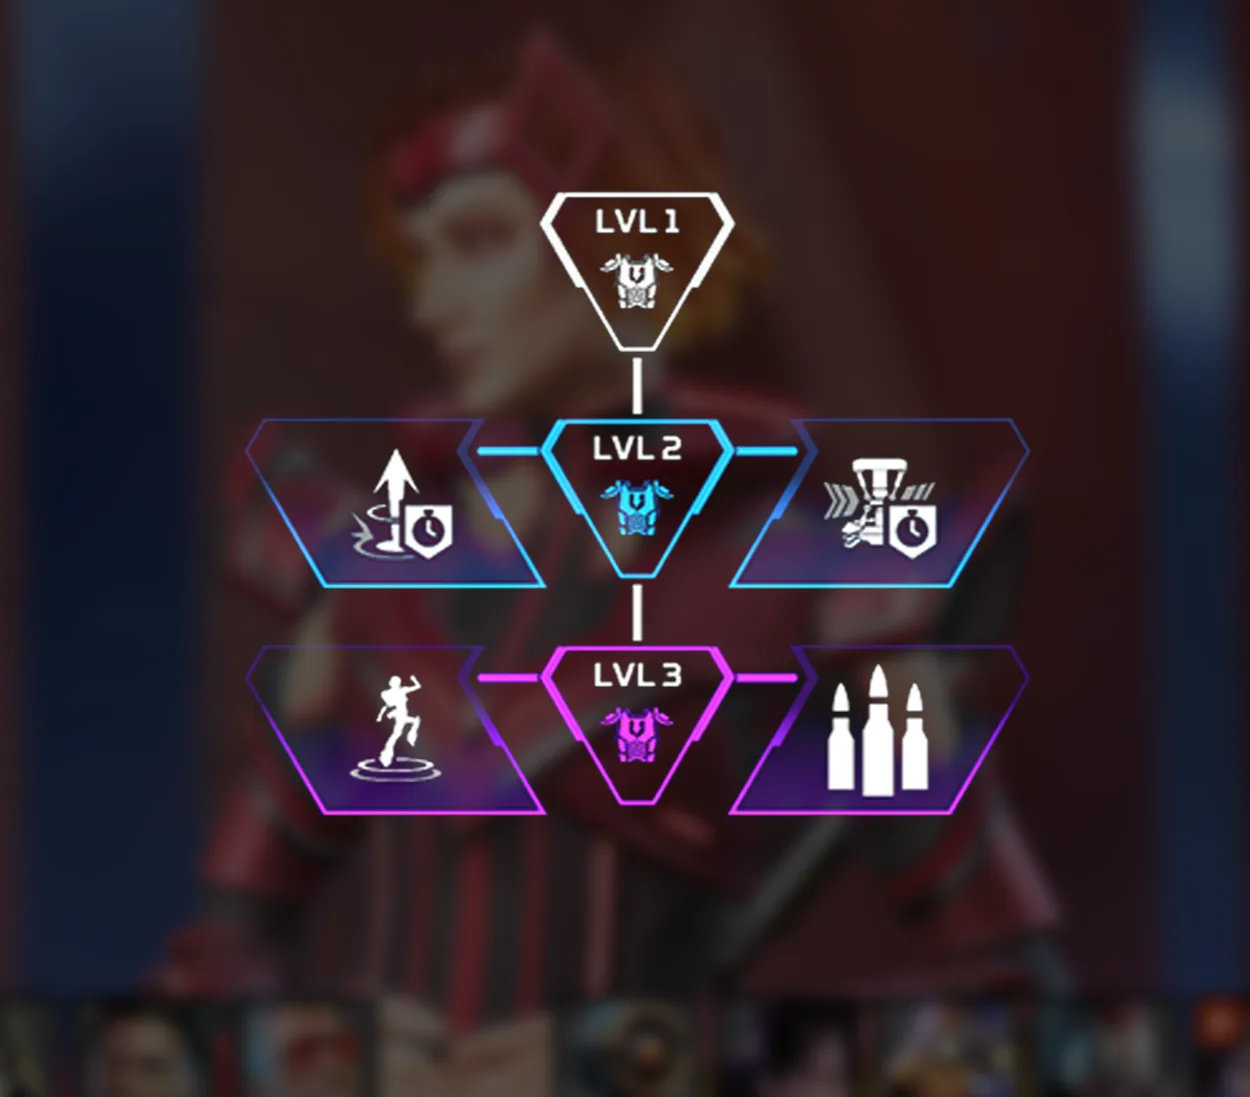
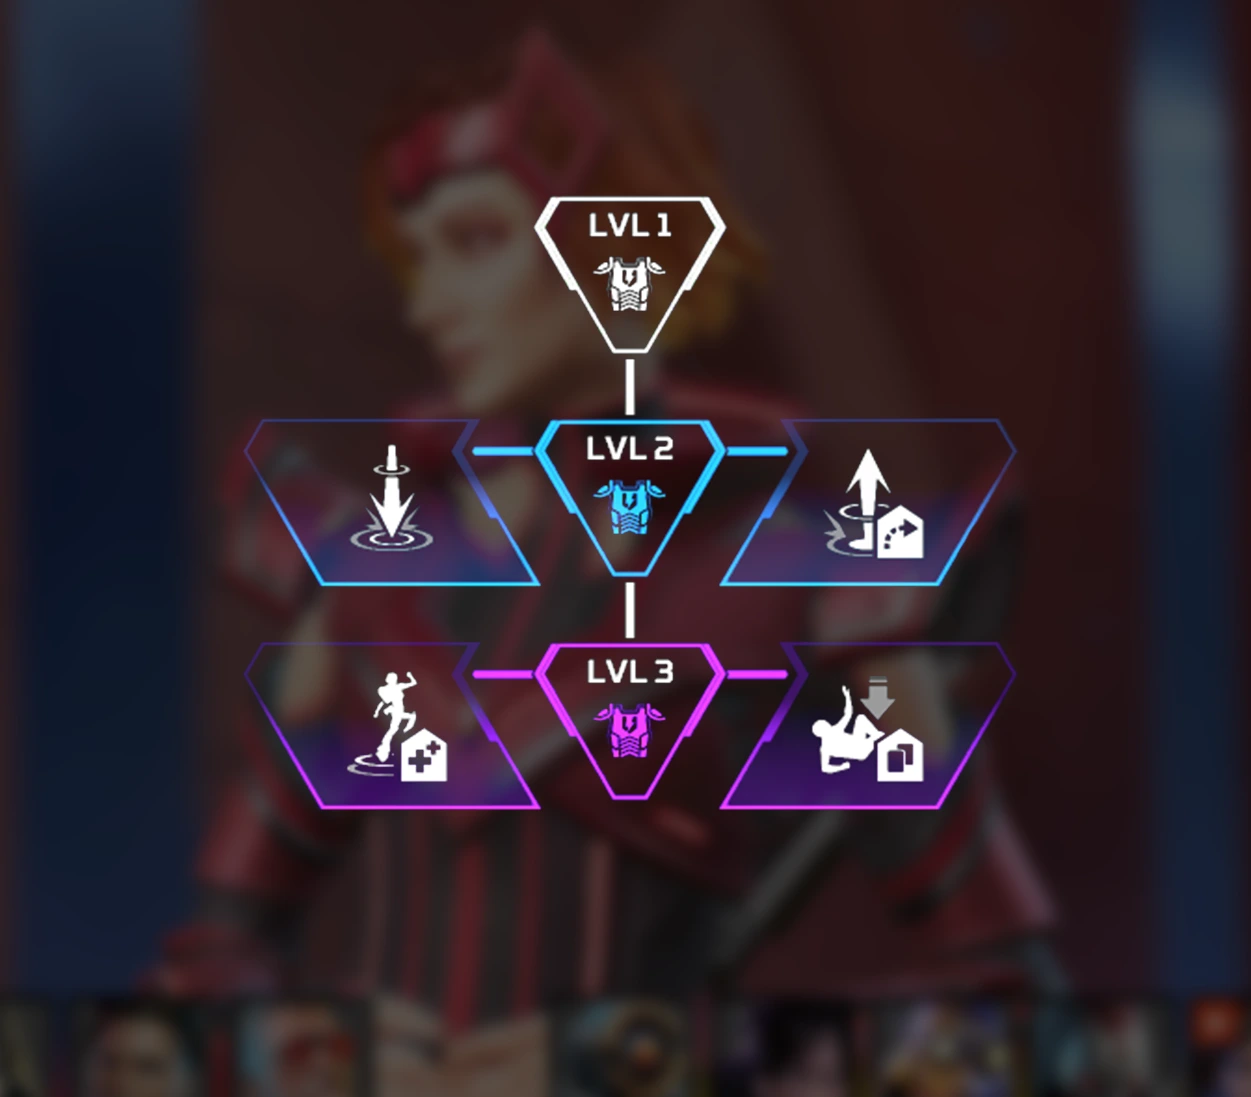
Updated to Apex Legends s27 Amped changes, new upgrades for horizon, valk and rampart

diff --git a/src/components/events/UpgradeLegends/Upgrade.module.css b/src/components/events/UpgradeLegends/Upgrade.module.css
@@ -21,6 +21,10 @@
     padding: 0 10px;
 }
 
+ .CharacterContainer h3 {
+        display: none;
+    }
+
 .UpgradeContainer {
     width: 100%;
     color: white;
@@ -34,7 +38,7 @@
     height: 80px;
     display: flex;
     background-color: transparent;
-    border: 3px solid transparent;
+    border: 3px solid ;
     justify-content: center;
     align-items: center;
 }
@@ -91,28 +95,37 @@
 /* ================================ */
 @media (max-width: 1024px) {
     .Container {
-        flex-direction: column;
+        flex-direction: flex;
         align-items: center;
-        padding: 1.5rem;
         gap: 1.5rem;
     }
 
     .CharacterContainer h3 {
+        display: none;
         font-size: 1.3rem;
     }
 
     .characterImage {
-        width: 250px;
-        height: 400px;
+        margin-top: 50px;
+        margin-left: 200px;
     }
 
-    .UpgradeContainer {
+    .UpgradeContainer {      
+        height: 500px;
+        margin-top: -544px;
+        margin-left: -30px;
         width: 100%;
         max-width: 500px;
     }
 
     .upgradeImage {
         max-width: 500px;
+    }
+
+    .SensitiveZone {
+        position: absolute;
+        margin-top: -310px;
+        margin-left: 320px;
     }
 
     .tooltip {
@@ -141,21 +154,32 @@
     }
 
     .CharacterContainer h3 {
+        display: none;
         font-size: 1.2rem;
     }
 
     .characterImage {
+        margin-top: 150px;
+        margin-left: 130px;
         width: 200px;
         height: 350px;
     }
 
     .UpgradeContainer {
+        margin-top: -450px;
+        margin-left: -30px;
         width: 100%;
         max-width: 400px;
     }
 
     .upgradeImage {
         max-width: 400px;
+    }
+
+    .SensitiveZone {
+        position: absolute;
+        margin-top: -300px;
+        margin-left: 270px;
     }
 
     .tooltip {
@@ -173,59 +197,5 @@
     .tooltip p {
         font-size: 0.8rem;
         line-height: 1.3;
-    }
-}
-
-/* ================================ */
-/* RESPONSIVE - MOBILE PEQUEÑO (menos de 480px) */
-/* ================================ */
-@media (max-width: 480px) {
-    .Container {
-        padding: 0.75rem;
-        gap: 0.75rem;
-    }
-
-    .CharacterContainer h3 {
-        font-size: 1rem;
-    }
-
-    .characterImage {
-        width: 150px;
-        height: 280px;
-    }
-
-    .UpgradeContainer {
-        max-width: 300px;
-    }
-
-    .upgradeImage {
-        max-width: 300px;
-    }
-
-    .tooltip {
-        min-width: 150px;
-        max-width: 200px;
-        padding: 0.6rem 0.8rem;
-    }
-
-    .tooltip h4 {
-        font-size: 0.85rem;
-        margin-bottom: 0.3rem;
-    }
-
-    .tooltip p {
-        font-size: 0.75rem;
-        line-height: 1.2;
-    }
-
-    .Zone1 .tooltip,
-    .Zone2 .tooltip {
-        top: 10px !important;
-    }
-
-    .Zone3 .tooltip,
-    .Zone4 .tooltip {
-        bottom: 10px !important;
-        top: auto !important;
     }
 }

diff --git a/src/components/events/UpgradeLegends/Recon/reconData.js b/src/components/events/UpgradeLegends/Recon/reconData.js
@@ -114,29 +114,29 @@ export const VALKYRIE_DATA = {
         {
             id: 1,
             zone: 'Zone1',
-            title: 'AFTERBURNERS',
-            description: 'Launch 15% higher with Skyward Dive.',
+            title: 'EYES IN THE SKY',
+            description: 'Enemies are revealed from further away and through walls while skydiving.',
             tooltipPosition: { top: -10, left: -460 }
         },
         {
             id: 2,
             zone: 'Zone2',
             title: 'FULL COVERAGE',
-            description: 'Widen Missile Swarm pattern from 4x3 to 3x5.',
+            description: '-5s tac cooldown. Missile Swarm pattern from 4x3 to 4x5.',
             tooltipPosition: { top: -10, left: 100 }
         },
         {
             id: 3,
             zone: 'Zone3',
-            title: 'EYES IN THE SKY',
-            description: 'Enemies are revealed from further away and through walls while skydiving.',
+            title: 'SUPERSONIC',
+            description: 'Ult launches players much faster.',
             tooltipPosition: { top: 100, left: -460 }
         },
         {
             id: 4,
             zone: 'Zone4',
-            title: 'FULL TANK',
-            description: 'Increase Jetpack fuel by 25%.',
+            title: 'AERIAL EXPERT',
+            description: 'Decrease Jetpack activation cost, increase horizontal speed. Consume fuel slightly faster',
             tooltipPosition: { top: 100, left: 100 }
         }
     ]

diff --git a/src/components/events/UpgradeLegends/Controller/controllerData.js b/src/components/events/UpgradeLegends/Controller/controllerData.js
@@ -78,15 +78,15 @@ export const RAMPART_DATA = {
         {
             id: 1,
             zone: 'Zone1',
-            title: 'ULTIMATE COOLDOWN',
-            description: 'Reduce Ultimate cooldown by 30 seconds.',
+            title: 'COMBAT RESERVE',
+            description: 'Gain access to Red bins, extra ammo per stack and extra grenade slots.',
             tooltipPosition: { top: -10, left: -460 }
         },
         {
             id: 2,
             zone: 'Zone2',
-            title: 'BANDOLIER',
-            description: 'Carry extra ammo per stack.',
+            title: 'LOCKED AND LOADED',
+            description: 'Reload faster and infinite ammo when behind Amped Cover and amped shield is intact.',
             tooltipPosition: { top: -10, left: 100 }
         },
         {
@@ -99,8 +99,8 @@ export const RAMPART_DATA = {
         {
             id: 4,
             zone: 'Zone4',
-            title: 'AMPED RELOADS',
-            description: 'Reload faster with Sheila & when behind Amped Cover.',
+            title: 'REBUILD MODULE',
+            description: 'Amped cover will regenerate after not being damaged for a period of time.',
             tooltipPosition: { top: 100, left: 100 }
         }
     ]

diff --git a/src/components/events/UpgradeLegends/Skirmisher/skirmData.js b/src/components/events/UpgradeLegends/Skirmisher/skirmData.js
@@ -78,15 +78,15 @@ export const HORIZON_DATA = {
         {
             id: 1,
             zone: 'Zone1',
-            title: 'TACTICAL COOLDOWN',
-            description: 'Reduce Tactical cooldown by 5 seconds.',
+            title: 'GRAVITY BOOTS',
+            description: 'Pressing Crouch while in the air makes the player fall faster.',
             tooltipPosition: { top: -10, left: -460 }
         },
         {
             id: 2,
             zone: 'Zone2',
-            title: 'ULTIMATE COOLDOWN',
-            description: 'Reduce Ultimate cooldown by 30 seconds.',
+            title: 'NEWT SCOOT',
+            description: 'After leaving Gravity Lift, pressing Jump key while in the air makes you fall slower.',
             tooltipPosition: { top: -10, left: 100 }
         },
         {
@@ -99,8 +99,8 @@ export const HORIZON_DATA = {
         {
             id: 4,
             zone: 'Zone4',
-            title: 'COMBAT RESERVE',
-            description: 'Access Assault Bins, carry extra ammo per stack, and extra grenade slots.',
+            title: 'KNOCK EXPERT',
+            description: 'Gain an extra ability charge on knock.',
             tooltipPosition: { top: 100, left: 100 }
         }
     ]

diff --git a/src/index.css b/src/index.css
@@ -22,6 +22,11 @@ a:hover {
   color: #535bf2;
 }
 
+html {
+    -webkit-text-size-adjust: 100%;
+    -ms-text-size-adjust: 100%;
+}
+
 body {
   margin: 0;
   display: flex;

diff --git a/README.md b/README.md
@@ -36,7 +36,7 @@ This will initialize the server and you can access the app in your browser with 
 
 **LEGENDS UPGRADES** 
 
-*Updated S26 Showdown*
+*Updated S27 Amped*
 
 ![image](https://github.com/user-attachments/assets/b49e7c9d-4031-4b4d-aa50-815d457b1bcb)
 
